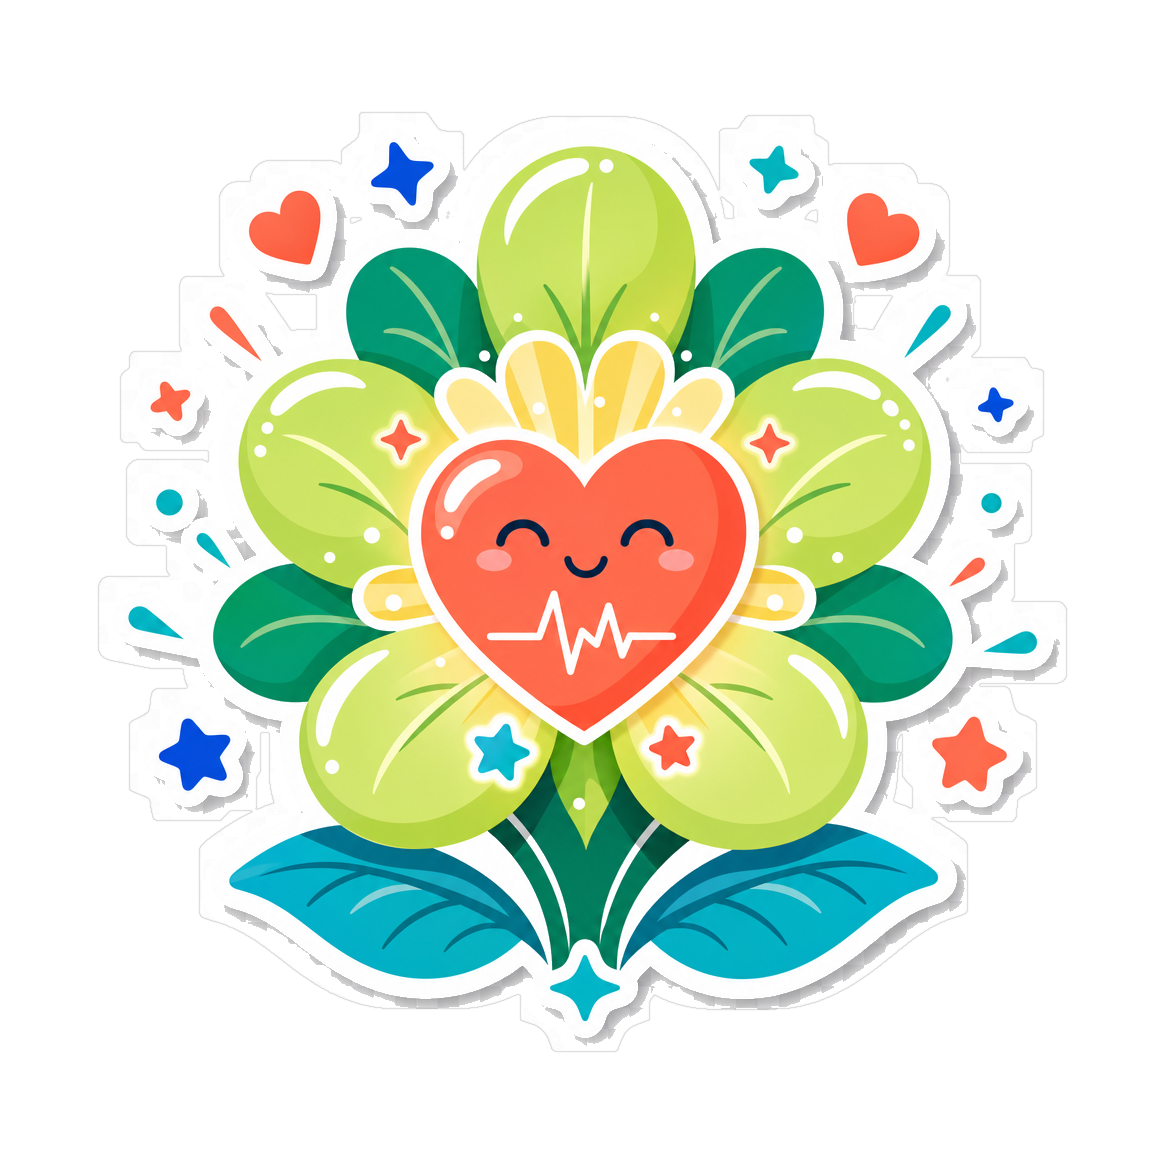
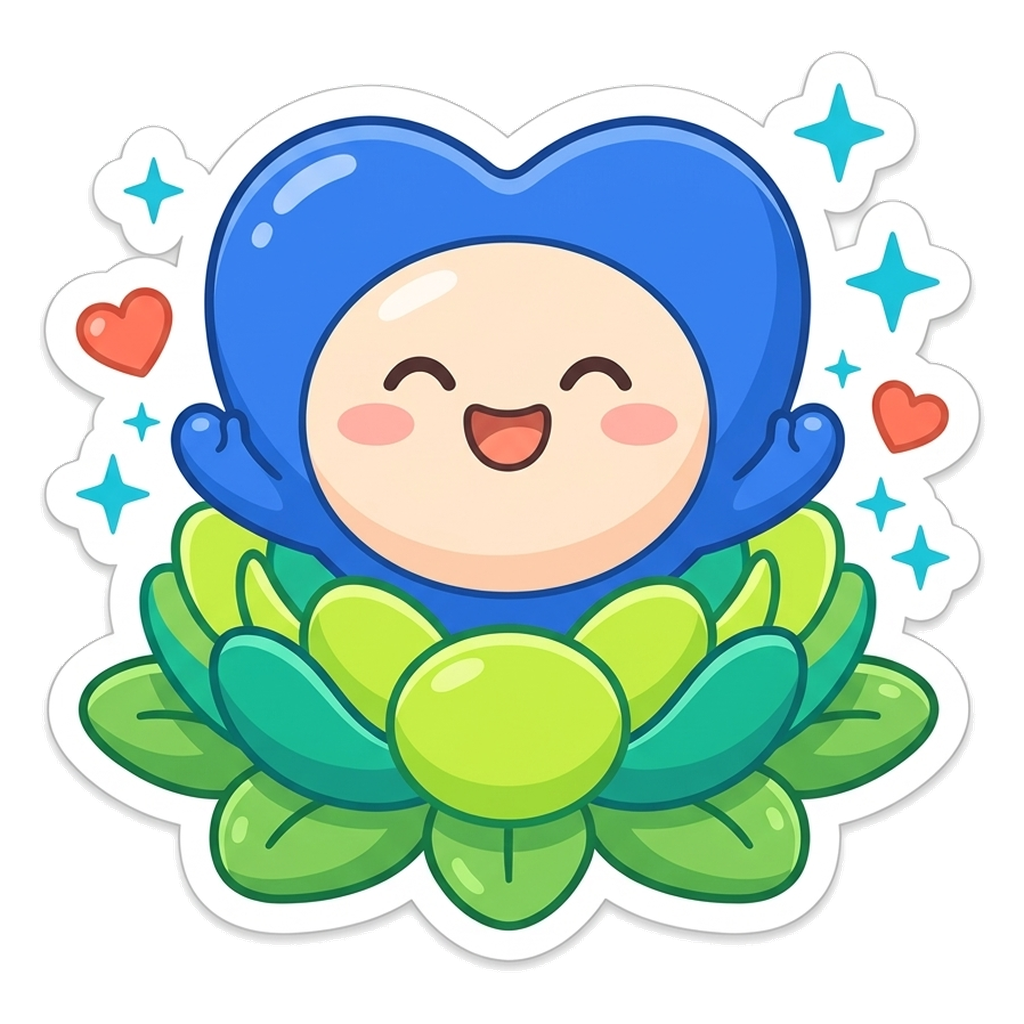
V10.422: replace stamp assets with Habao character & unify share posters

diff --git a/habao.js b/habao.js
@@ -1688,6 +1688,23 @@
 
   const CHANGELOG = [
     {
+      ver: "V10.422",
+      date: "2026-11-18",
+      time: "09:41",
+      title: "集章贴画全面升级为哈宝形象，并统一优化各分享海报视觉",
+      screens: [
+        { id: "stamps", label: "今日集章" },
+        { id: "walk-records", label: "散步记录" },
+        { id: "vitals", label: "血压监测" },
+        { id: "body-report", label: "身体报告" },
+      ],
+      items: [
+        "将用药、运动、监测、饮食、休息、复诊与全勤盛放 7 枚集章贴画全部替换为统一风格的哈宝形象贴纸。",
+        "统一真机与交互全景 4 类分享海报（集章名信片、散步打卡、血压监测周报、身体报告小结）的极光蓝白渐变底、哈宝品牌页眉与底部落款。",
+        "全勤集章海报新增哈宝盛放光晕徽章，散步与血压监测无记录占位同步融入哈宝运动/监测贴画。",
+      ],
+    },
+    {
       ver: "V10.421",
       date: "2026-11-17",
       time: "17:34",
@@ -20980,11 +20997,15 @@
         <div class="sheet ta-c" onclick="event.stopPropagation()">
           <div class="grab"></div>
           <div class="poster-full">
-            <div class="poster-head"><img src="${A.logo}" width="30" height="30" alt="" /><span>哈宝 · 康复打卡</span></div>
-            <div class="poster-title">${kind === "vitals" ? "血压监测周报" : "身体报告小结"}</div>
-            <div class="col gap10 mt12">
-              ${rows.map(([k, v]) => `<div class="flex between s15" style="padding:10px 14px;background:#F4F7FC;border-radius:12px"><span class="t-sec">${k}</span><span class="fb t">${v}</span></div>`).join("")}
+            <div class="poster-brand">
+              <div class="poster-head"><img src="${A.logo}" width="26" height="26" alt="" /><span>哈宝 · 康复打卡</span></div>
+              <span class="poster-badge">${kind === "vitals" ? "血压监测" : "身体报告"}</span>
             </div>
+            <div class="poster-title">${kind === "vitals" ? "血压监测周报" : "身体报告小结"}</div>
+            <div class="col gap10 mt4" style="width:100%">
+              ${rows.map(([k, v]) => `<div class="flex between s15" style="padding:11px 14px;background:rgba(255,255,255,.88);border:1px solid rgba(16,84,224,.08);border-radius:14px"><span class="t-sec">${k}</span><span class="fb t">${v}</span></div>`).join("")}
+            </div>
+            <div class="poster-foot-brand"><span></span><i>循光而行 · 一天一节律</i><span></span></div>
           </div>
           <div class="flex center gap16">
             ${[["微信", "demoShare", "#07C160"], ["小红书", "demoShare", "#FF2442"], ["保存图片", "savedAlbum", "#1054E0"], ["取消", "close", "#828EA5"]]
@@ -21880,21 +21901,25 @@
       <div class="scrim bottom" data-act="close">
         <div class="sheet ta-c" onclick="event.stopPropagation()">
           <div class="grab"></div>
-          <div class="poster-card">
-            <div class="poster-pin">${I.walk}<span>散步打卡</span></div>
-            <div class="poster-date">${date}</div>
-            <div class="poster-route">
+          <div class="poster-full">
+            <div class="poster-brand">
+              <div class="poster-head"><img src="${A.logo}" width="26" height="26" alt="" /><span>哈宝 · 康复打卡</span></div>
+              <span class="poster-badge">散步打卡</span>
+            </div>
+            <div class="poster-title">${date}</div>
+            <div class="poster-route" style="width:100%;margin-top:4px;background:#fff;box-shadow:0 8px 20px rgba(16,84,224,.08)">
               <svg viewBox="0 0 100 88" preserveAspectRatio="xMidYMid meet">
                 <path d="${r.d}" fill="none" stroke="#1054E0" stroke-width="4" stroke-linecap="round" stroke-linejoin="round"/>
                 <circle cx="${r.s[0]}" cy="${r.s[1]}" r="6" fill="#fff"/><circle cx="${r.s[0]}" cy="${r.s[1]}" r="4.5" fill="#1AA64A"/>
                 <circle cx="${r.e[0]}" cy="${r.e[1]}" r="6" fill="#fff"/><circle cx="${r.e[0]}" cy="${r.e[1]}" r="4.5" fill="#F0644A"/>
               </svg>
             </div>
-            <div class="poster-stats">
+            <div class="poster-stats" style="width:100%;margin-top:4px">
               <div><b>${d.km || "0.68"}</b><small>km 距离</small></div>
               <div><b>${d.dur || "12:34"}</b><small>时长</small></div>
               <div><b>${d.steps || "920"}</b><small>步数</small></div>
             </div>
+            <div class="poster-foot-brand"><span></span><i>循光而行 · 一天一节律</i><span></span></div>
           </div>
           <div class="flex center gap16">
             ${[["微信", "demoShare", "#07C160"], ["小红书", "demoShare", "#FF2442"], ["保存图片", "savedAlbum", "#1054E0"], ["取消", "close", "#828EA5"]]
@@ -21926,26 +21951,27 @@
         <div class="sheet ta-c" onclick="event.stopPropagation()">
           <div class="grab"></div>
           <div class="poster-full">
-            <div class="poster-head">
-              <img src="${A.logo}" width="30" height="30" alt="" />
-              <span>哈宝 · 康复打卡</span>
+            <div class="poster-brand">
+              <div class="poster-head"><img src="${A.logo}" width="26" height="26" alt="" /><span>哈宝 · 康复打卡</span></div>
+              <span class="poster-badge">健康名信片</span>
             </div>
             <div class="poster-title">${d.getMonth() + 1}月${d.getDate()}日集章</div>
             ${rxPosterLine(sel)}
+            ${allDone ? `<div class="poster-bloom-hero"><img src="${A.stamp.bloom}" width="78" height="78" alt="" /></div>` : `
             <div class="poster-ring">
-              <div class="stamp-ring ${allDone ? "done" : ""}" style="transform:scale(1.5)">
+              <div class="stamp-ring ${allDone ? "done" : ""}" style="transform:scale(1.4)">
                 <svg viewBox="0 0 36 36">
                   <circle class="bg" cx="18" cy="18" r="15"/>
                   <circle class="fg" cx="18" cy="18" r="15" style="stroke-dasharray:94.2;stroke-dashoffset:${(94.2 * (1 - doneN / dayN)).toFixed(1)}"/>
                 </svg>
                 <span>${Math.round((doneN / dayN) * 100)}%</span>
               </div>
-            </div>
-            ${allDone ? `<img src="${A.stamp.bloom}" width="76" alt="" />` : ""}
+            </div>`}
             <div class="stamp-grid poster-grid">
               ${Object.keys(CAT).map((c) => `<div class="stamp ${doneSet.has(dayTasks.find((t) => t.cat === c)?.id) ? "" : "ghost"}"><img src="${A.stamp[c]}" alt="" /></div>`).join("")}
             </div>
             <div class="poster-foot">已收下 ${doneN} / ${dayTasks.length} 枚健康章</div>
+            <div class="poster-foot-brand"><span></span><i>循光而行 · 一天一节律</i><span></span></div>
           </div>
           <div class="flex center gap16">
             ${[["微信", "demoShare", "#07C160"], ["小红书", "demoShare", "#FF2442"], ["保存图片", "savedAlbum", "#1054E0"], ["取消", "close", "#828EA5"]]

diff --git a/habao.css b/habao.css
@@ -3298,24 +3298,46 @@ button svg, .cta svg, .fab svg, .cta-ghost svg, .cta-line svg,
   box-shadow: 0 4px 8px rgba(16,84,224,.18);
 }
 
-/* 集章分享海报：竖版全尺寸 */
+/* 集章 / 散步 / 指标 / 报告分享海报：统一极光蓝白渐变 + 哈宝品牌页眉 + 底部落款 */
 .poster-full {
-  width: 100%; max-width: 300px; margin: 0 auto 18px;
-  background: linear-gradient(180deg, #fff, #F8FBFF);
-  border-radius: 24px; padding: 20px 18px 22px;
+  width: 100%; max-width: 308px; margin: 0 auto 18px;
+  background:
+    radial-gradient(circle at 92% 6%, rgba(30,190,214,.14), transparent 52%),
+    radial-gradient(circle at 8% 94%, rgba(16,84,224,.08), transparent 48%),
+    linear-gradient(180deg, #F8FBFF 0%, #EEF4FF 100%);
+  border: 1px solid rgba(16,84,224,.08);
+  border-radius: 24px; padding: 18px 18px 18px;
   box-shadow: 0 12px 30px rgba(16,84,224,.12);
-  display: flex; flex-direction: column; align-items: center; gap: 12px;
+  display: flex; flex-direction: column; align-items: center; gap: 10px;
+}
+.poster-brand {
+  width: 100%; display: flex; align-items: center; justify-content: space-between; gap: 8px;
 }
 .poster-head {
-  display: flex; align-items: center; gap: 8px; align-self: flex-start;
-  font-size: calc(13px * var(--fs)); font-weight: 600; color: var(--blue);
+  display: flex; align-items: center; gap: 7px;
+  font-size: calc(13px * var(--fs)); font-weight: 700; color: var(--blue);
 }
-.poster-title { font-size: calc(22px * var(--fs)); font-weight: 700; color: var(--blue); }
-.poster-ring { height: 56px; display: grid; place-items: center; }
+.poster-badge {
+  display: inline-flex; align-items: center;
+  padding: 4px 10px; border-radius: 999px;
+  background: var(--blue); color: #fff;
+  font-size: calc(11px * var(--fs)); font-weight: 700;
+}
+.poster-bloom-hero {
+  width: 96px; height: 96px; display: grid; place-items: center; border-radius: 50%;
+  background: radial-gradient(circle at center, rgba(30,190,214,.22), rgba(16,84,224,.08) 58%, transparent 78%);
+}
+.poster-title { font-size: calc(21px * var(--fs)); font-weight: 700; color: var(--blue); }
+.poster-ring { height: 52px; display: grid; place-items: center; }
 .poster-ring .stamp-ring { position: static; }
 .poster-grid { width: 100%; gap: 10px; }
 .poster-grid .stamp img { width: 60px; height: 60px; }
 .poster-foot { font-size: calc(13px * var(--fs)); font-weight: 600; color: var(--secondary); }
+.poster-foot-brand {
+  width: 100%; display: flex; align-items: center; gap: 8px; margin-top: 4px;
+}
+.poster-foot-brand span { flex: 1; height: 1px; background: rgba(16,84,224,.10); }
+.poster-foot-brand i { font-style: normal; font-size: calc(11px * var(--fs)); font-weight: 600; color: var(--secondary); opacity: .82; }
 
 /* 健康档案：可折叠分区 + 3:4 缩略图 + 悬浮毛玻璃上传底栏 + 整页预览 */
 .hr-src-head {

diff --git a/index.html b/index.html
@@ -4,7 +4,7 @@
   <meta charset="utf-8" />
   <meta name="viewport" content="width=device-width, initial-scale=1" />
   <title>哈宝 · 交互全景</title>
-  <link rel="stylesheet" href="habao.css?v=1421" />
+  <link rel="stylesheet" href="habao.css?v=1422" />
 </head>
 <body>
   <div class="studio">
@@ -13,7 +13,7 @@
         <img src="assets/brand_logo.png" alt="哈宝" />
         <div>
           <h1>哈宝交互全景</h1>
-          <p>V10.421 · 真机模拟</p>
+          <p>V10.422 · 真机模拟</p>
         </div>
       </div>
       <div class="mode-row">
@@ -53,7 +53,7 @@
       <div id="spec"></div>
     </aside>
   </div>
-  <script src="prd-data.js?v=1419"></script>
-  <script src="habao.js?v=1419"></script>
+  <script src="prd-data.js?v=1422"></script>
+  <script src="habao.js?v=1422"></script>
 </body>
 </html>
